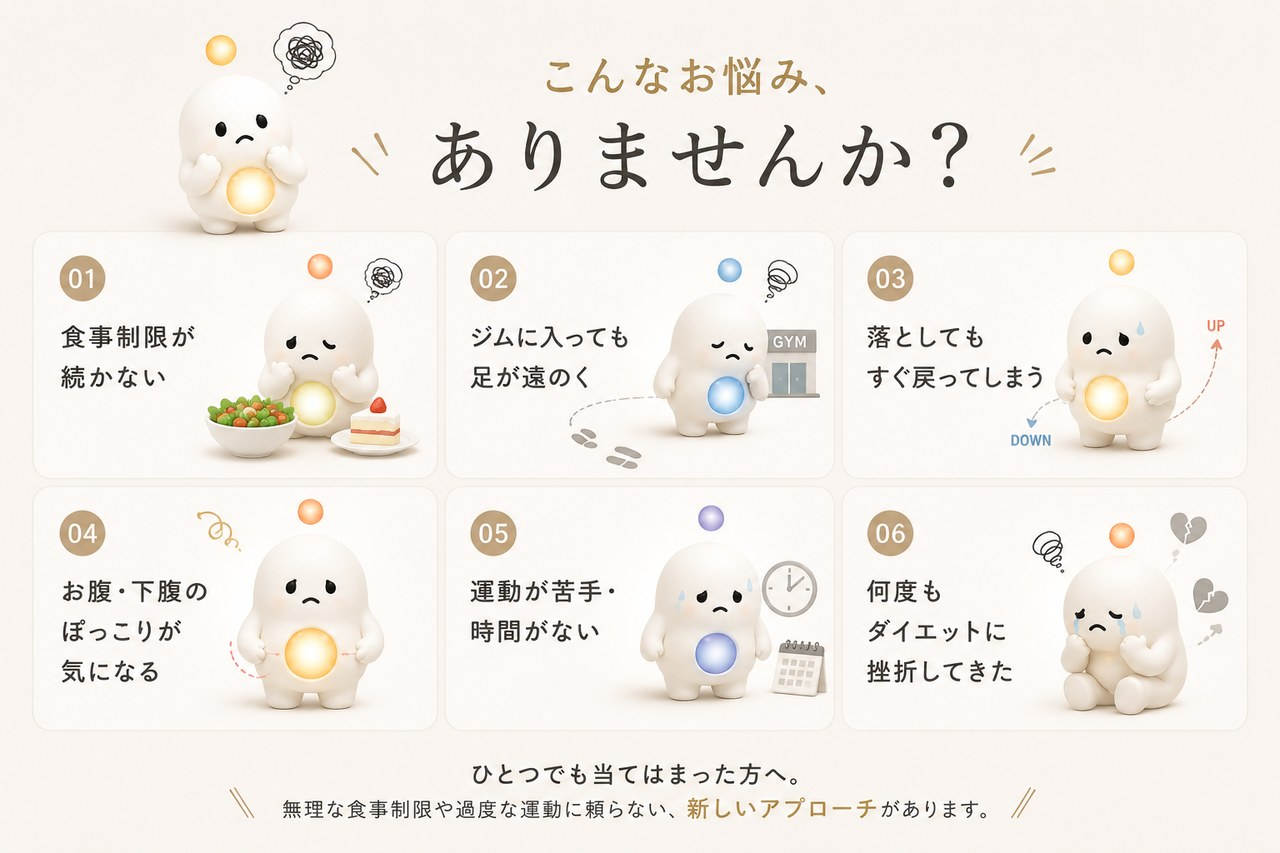
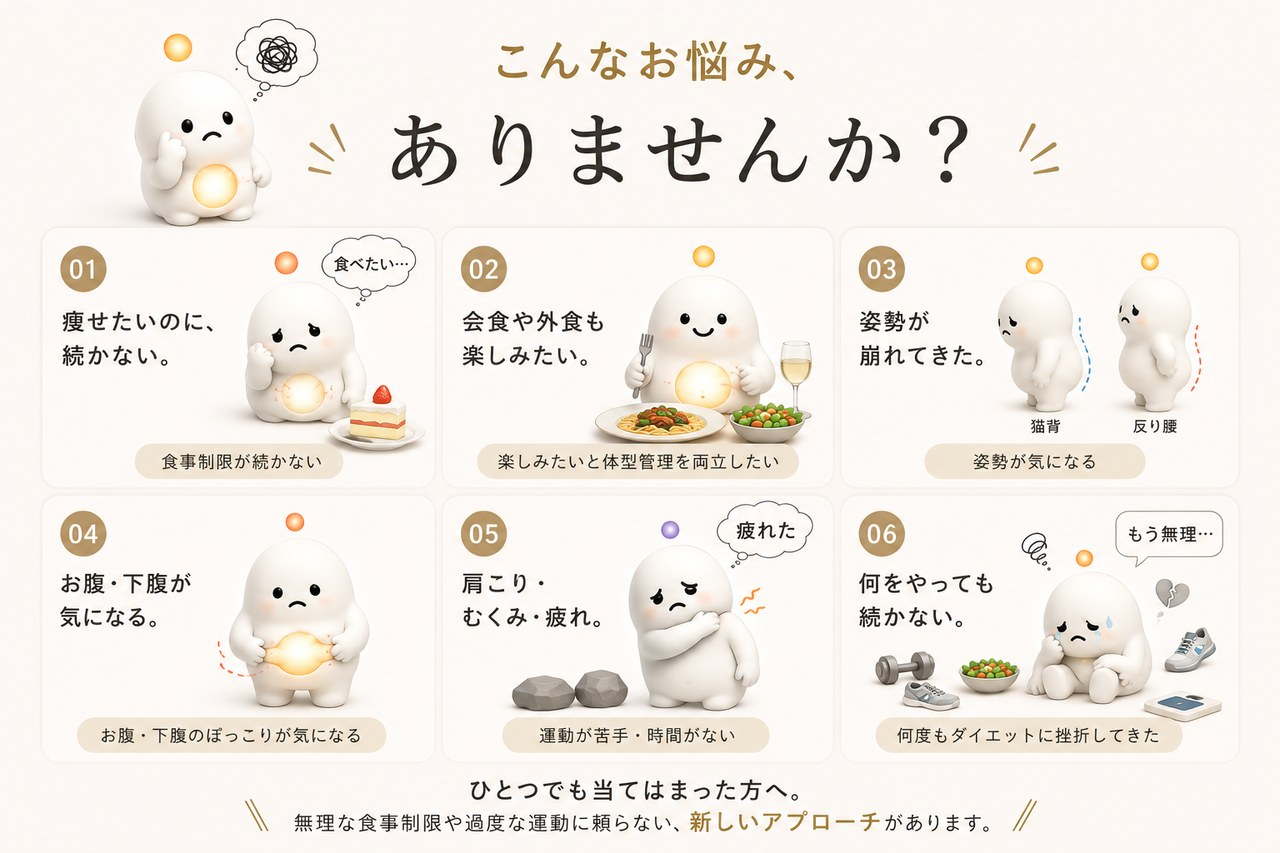
TOPの悩みセクションを新ビジュアル（6カード詳細版）に差し替え

diff --git a/index.html b/index.html
@@ -592,7 +592,7 @@ footer{background:#161616;color:rgba(255,255,255,.7);padding:clamp(48px,7vw,72px
 <section class="sec" style="background:transparent">
   <div class="wrap">
     <h2 class="lead" style="position:absolute;width:1px;height:1px;overflow:hidden;clip:rect(0 0 0 0);white-space:nowrap">こんなお悩み、ありませんか？</h2>
-    <figure class="rv" style="margin:0 auto;max-width:1000px"><img loading="lazy" src="images/nayami-cards.jpg" alt="こんなお悩み、ありませんか？ 01 食事制限が続かない／02 ジムに入っても足が遠のく／03 落としてもすぐ戻ってしまう／04 お腹・下腹のぽっこりが気になる／05 運動が苦手・時間がない／06 何度もダイエットに挫折してきた。ひとつでも当てはまった方へ、無理な食事制限や過度な運動に頼らない新しいアプローチがあります。" style="width:100%;display:block;border-radius:14px"></figure>
+    <figure class="rv" style="margin:0 auto;max-width:1000px"><img loading="lazy" src="images/nayami-cards.jpg" alt="こんなお悩み、ありませんか？ 01 食事制限が続かない／02 楽しみたいと体型管理を両立したい／03 姿勢が気になる（猫背・反り腰）／04 お腹・下腹のぽっこりが気になる／05 運動が苦手・時間がない／06 何度もダイエットに挫折してきた。ひとつでも当てはまった方へ、無理な食事制限や過度な運動に頼らない新しいアプローチがあります。" style="width:100%;display:block;border-radius:14px"></figure>
   </div>
 </section>
 